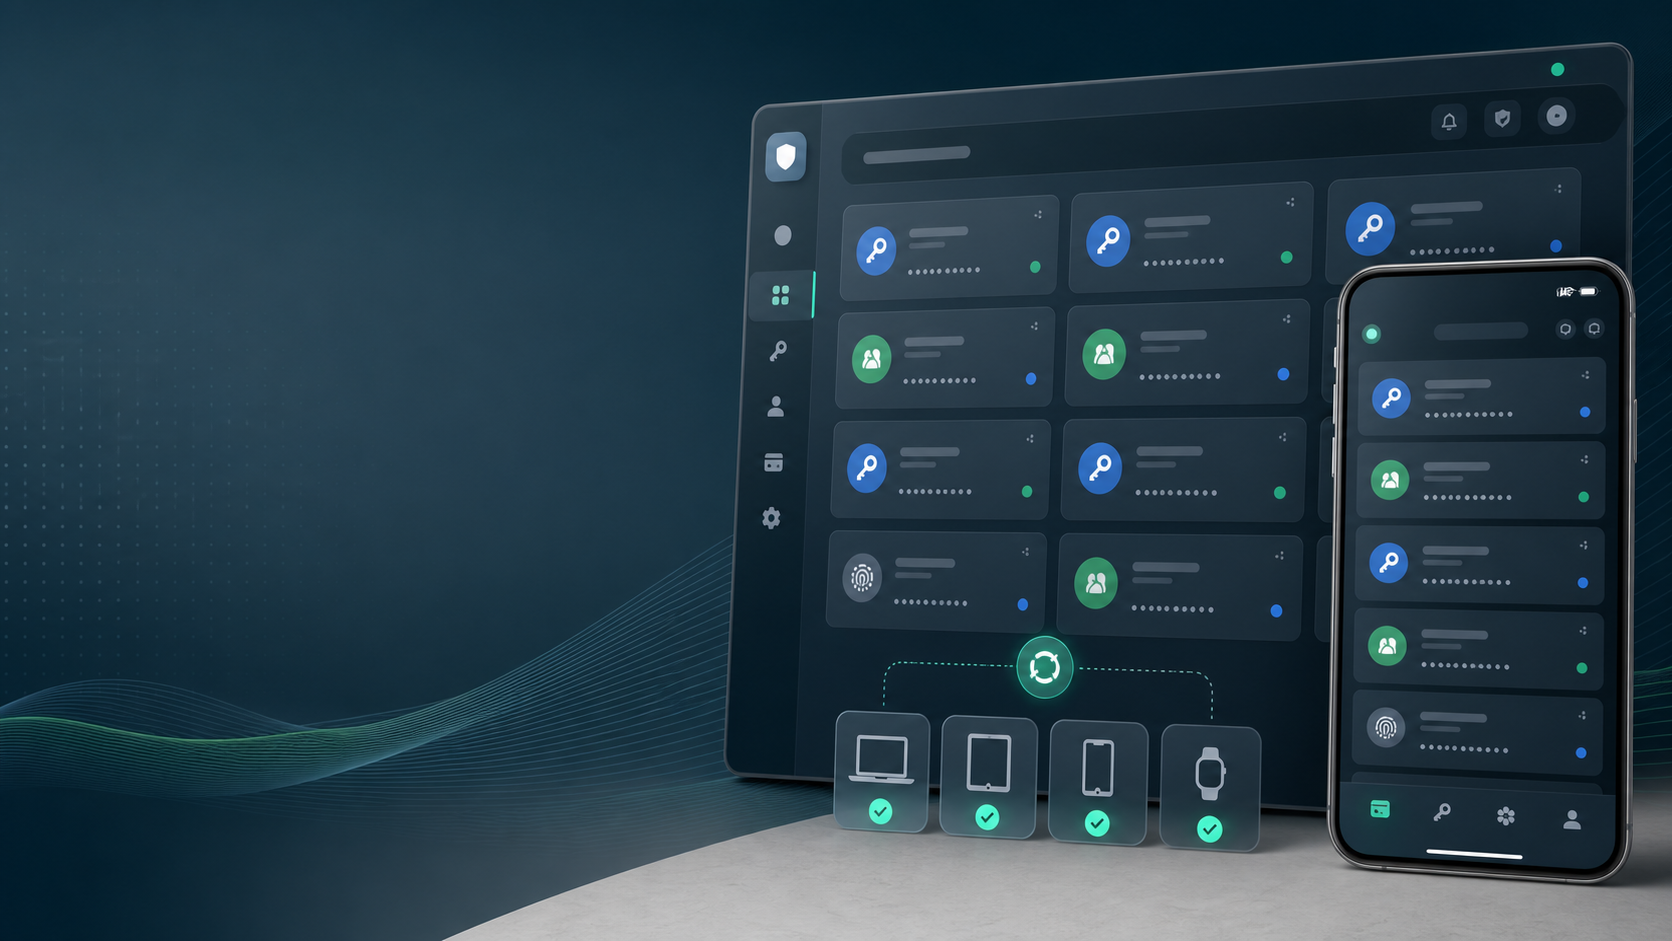
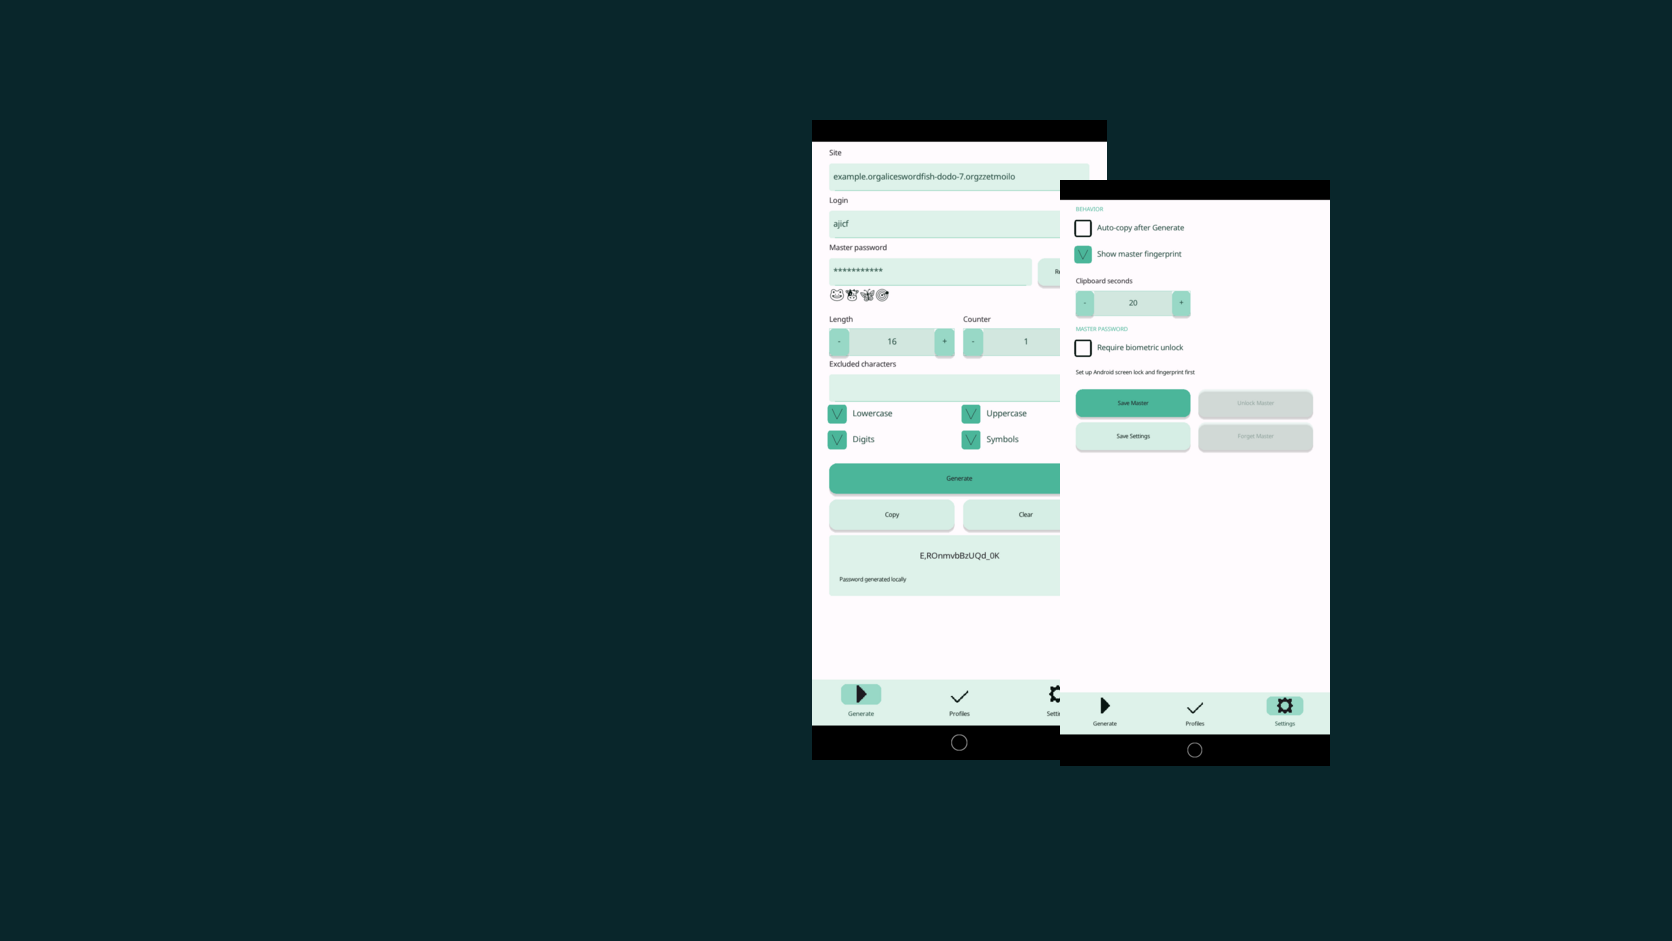
Generate showcase ranking data

diff --git a/docs/site/showcase.html b/docs/site/showcase.html
@@ -56,60 +56,7 @@
     <section>
       <p class="section-eyebrow">Top projects</p>
       <h2>Top 10 by trusted stars</h2>
-      <div class="showcase-grid" id="showcase-projects" data-showcase-projects>
-        <article class="app-card">
-          <img class="app-card-image" src="showcase/inner-breeze.png" alt="Inner Breeze app banner">
-          <div class="app-card-body">
-            <span class="showcase-rank">#1 · 28 stars</span>
-            <span class="app-kicker">wellness · habits · mobile · web</span>
-            <h3>Inner Breeze</h3>
-            <p>Breathing, meditation, and habit practice flows built as a real Kryon app target.</p>
-            <div class="app-actions">
-              <a class="btn btn-primary" href="https://inbe.waozi.xyz" target="_blank" rel="noopener">Open app</a>
-              <a class="btn" href="https://github.com/waozixyz/inbe" target="_blank" rel="noopener">Source</a>
-            </div>
-          </div>
-        </article>
-        <article class="app-card">
-          <img class="app-card-image" src="showcase/krait.png" alt="Krait IDE banner">
-          <div class="app-card-body">
-            <span class="showcase-rank">#2 · 1 star</span>
-            <span class="app-kicker">IDE · developer-tools · desktop</span>
-            <h3>Krait</h3>
-            <p>Standalone Kryon IDE for editing, previewing, inspecting, and building Kryon projects.</p>
-            <div class="app-actions">
-              <a class="btn btn-primary" href="https://krait.kryonlabs.com" target="_blank" rel="noopener">Open app</a>
-              <a class="btn" href="https://github.com/kryonlabs/krait" target="_blank" rel="noopener">Source</a>
-            </div>
-          </div>
-        </article>
-        <article class="app-card">
-          <img class="app-card-image" src="showcase/pass.png" alt="Pass password generator banner">
-          <div class="app-card-body">
-            <span class="showcase-rank">#3 · 1 star</span>
-            <span class="app-kicker">security · passwords · desktop · mobile · web</span>
-            <h3>Pass</h3>
-            <p>Deterministic password generator with CLI, desktop, Android, and browser builds.</p>
-            <div class="app-actions">
-              <a class="btn btn-primary" href="https://pass.waozi.xyz" target="_blank" rel="noopener">Open app</a>
-              <a class="btn" href="https://github.com/waozixyz/pass" target="_blank" rel="noopener">Source</a>
-            </div>
-          </div>
-        </article>
-        <article class="app-card">
-          <img class="app-card-image" src="showcase/kapsule.png" alt="Kapsule terminal banner">
-          <div class="app-card-body">
-            <span class="showcase-rank">#4 · 0 stars</span>
-            <span class="app-kicker">terminal · developer-tools · desktop</span>
-            <h3>Kapsule</h3>
-            <p>Native terminal application with sessions, tabs, and focused developer workflows.</p>
-            <div class="app-actions">
-              <a class="btn btn-primary" href="https://kapsule.kryonlabs.com" target="_blank" rel="noopener">Open app</a>
-              <a class="btn" href="https://github.com/kryonlabs/kapsule" target="_blank" rel="noopener">Source</a>
-            </div>
-          </div>
-        </article>
-      </div>
+      <div class="showcase-grid" id="showcase-projects" data-showcase-projects aria-live="polite"></div>
     </section>
   </main>
 
@@ -175,7 +122,7 @@
         var tags = (project.tags || []).join(" · ");
         var homepage = project.homepage || project.repository;
         return '<article class="app-card">' +
-          '<img class="app-card-image" src="' + escapeHtml(project.banner) + '" alt="' + escapeHtml(project.name) + ' app banner">' +
+          '<img class="app-card-image" src="' + escapeHtml(project.banner) + '" alt="' + escapeHtml(project.bannerAlt || project.name + ' app banner') + '">' +
           '<div class="app-card-body">' +
           '<span class="showcase-rank">' + escapeHtml(rank + starLabel(project.stars)) + '</span>' +
           '<span class="app-kicker">' + escapeHtml(tags) + '</span>' +
@@ -224,11 +171,14 @@
           .then(function(data) {
             if (!data || !Array.isArray(data.projects) || !data.projects.length) return;
             var projects = rerankProjects(data.projects);
-            grid.innerHTML = projects.map(renderProject).join("");
+            var hasGeneratedStars = projects.some(function(project) {
+              return typeof project.stars === "number";
+            });
+            if (hasGeneratedStars) {
+              grid.innerHTML = projects.map(renderProject).join("");
+            }
             refreshStars(projects).then(function(liveProjects) {
-              if (liveProjects !== projects) {
-                grid.innerHTML = liveProjects.map(renderProject).join("");
-              }
+              grid.innerHTML = liveProjects.map(renderProject).join("");
             });
           })
           .catch(function() {});

diff --git a/docs/site/styles.css b/docs/site/styles.css
@@ -837,11 +837,29 @@ h3 {
 }
 
 .showcase-grid .app-card {
-  min-height: 360px;
+  display: flex;
+  flex-direction: column;
+  min-height: 0;
+  background: #0b1820;
+}
+
+.showcase-grid .app-card::after {
+  display: none;
 }
 
 .showcase-grid .app-card-image {
-  min-height: 360px;
+  height: 210px;
+  min-height: 210px;
+  object-fit: cover;
+  object-position: center;
+}
+
+.showcase-grid .app-card-body {
+  position: relative;
+  left: auto;
+  bottom: auto;
+  width: auto;
+  padding: 22px;
 }
 
 .showcase-rank {
@@ -856,6 +874,22 @@ h3 {
   background: rgba(255, 253, 248, 0.12);
   font-size: 12px;
   font-weight: 700;
+}
+
+@media (max-width: 620px) {
+  .showcase-grid .app-card {
+    min-height: 0;
+  }
+
+  .showcase-grid .app-card-image {
+    height: 220px;
+    min-height: 220px;
+    padding: 18px;
+  }
+
+  .showcase-grid .app-card h3 {
+    font-size: 34px;
+  }
 }
 
 /* ---- platform grid ---- */

diff --git a/scripts/update-showcase.py b/scripts/update-showcase.py
@@ -1,0 +1,186 @@
+#!/usr/bin/env python3
+import argparse
+import base64
+import datetime as dt
+import json
+import os
+import sys
+import urllib.error
+import urllib.parse
+import urllib.request
+from pathlib import Path
+
+
+USER_AGENT = "kryon-showcase-builder"
+
+
+def request(url):
+    headers = {
+        "Accept": "application/vnd.github+json",
+        "User-Agent": USER_AGENT,
+    }
+    token = os.environ.get("GITHUB_TOKEN")
+    if token:
+        headers["Authorization"] = f"Bearer {token}"
+    return urllib.request.Request(url, headers=headers)
+
+
+def fetch_json(url):
+    with urllib.request.urlopen(request(url), timeout=20) as response:
+        return json.load(response)
+
+
+def fetch_bytes(url):
+    with urllib.request.urlopen(request(url), timeout=30) as response:
+        return response.read()
+
+
+def fetch_banner_bytes(url):
+    parsed = urllib.parse.urlparse(url)
+    parts = parsed.path.lstrip("/").split("/")
+    if parsed.netloc == "raw.githubusercontent.com" and len(parts) >= 4:
+        owner, repo, ref = parts[0], parts[1], parts[2]
+        path = "/".join(parts[3:])
+        api_url = (
+            f"https://api.github.com/repos/{owner}/{repo}/contents/"
+            f"{urllib.parse.quote(path)}?ref={urllib.parse.quote(ref)}"
+        )
+        data = fetch_json(api_url)
+        if data.get("encoding") == "base64" and isinstance(data.get("content"), str):
+            return base64.b64decode(data["content"])
+    return fetch_bytes(url)
+
+
+def load_local_projects(projects_dir):
+    return [
+        json.loads(path.read_text(encoding="utf-8"))
+        for path in sorted(projects_dir.glob("*.json"))
+    ]
+
+
+def load_github_projects(repo, ref):
+    owner, name = repo.split("/", 1)
+    listing_url = (
+        f"https://api.github.com/repos/{owner}/{name}/contents/projects"
+        f"?ref={urllib.parse.quote(ref)}"
+    )
+    entries = fetch_json(listing_url)
+    projects = []
+    for entry in sorted(entries, key=lambda item: item["name"]):
+        if entry.get("type") != "file" or not entry["name"].endswith(".json"):
+            continue
+        data = fetch_bytes(entry["download_url"])
+        projects.append(json.loads(data.decode("utf-8")))
+    return projects
+
+
+def github_stars(repository):
+    if repository.get("platform") != "github":
+        return None
+    owner = repository["owner"]
+    name = repository["name"]
+    repo = fetch_json(f"https://api.github.com/repos/{owner}/{name}")
+    stars = repo.get("stargazers_count")
+    return stars if isinstance(stars, int) else None
+
+
+def banner_name(project):
+    url_path = urllib.parse.urlparse(project["banner"]["url"]).path
+    suffix = Path(url_path).suffix.lower()
+    if suffix not in (".png", ".jpg", ".jpeg", ".webp"):
+        suffix = ".png"
+    return f"{project['slug']}{suffix}"
+
+
+def download_banner(project, banner_dir):
+    banner_dir.mkdir(parents=True, exist_ok=True)
+    name = banner_name(project)
+    path = banner_dir / name
+    path.write_bytes(fetch_banner_bytes(project["banner"]["url"]))
+    return f"showcase/{name}"
+
+
+def site_project(project, banner_path, stars):
+    repository = project["repository"]
+    unranked = bool(project.get("unranked")) or stars is None
+    return {
+        "slug": project["slug"],
+        "name": project["name"],
+        "summary": project["summary"],
+        "repository": repository["url"],
+        "homepage": project.get("homepage", repository["url"]),
+        "banner": banner_path,
+        "bannerAlt": project.get("banner", {}).get("alt", f"{project['name']} app banner"),
+        "stars": stars,
+        "tags": project["tags"],
+        "featured": bool(project.get("featured")),
+        "unranked": unranked,
+    }
+
+
+def trusted_stars(project):
+    return project["stars"] if isinstance(project.get("stars"), int) and not project.get("unranked") else -1
+
+
+def rank_projects(projects, limit):
+    ranked = sorted(
+        projects,
+        key=lambda project: (
+            bool(project.get("unranked")),
+            -trusted_stars(project),
+            project["name"].lower(),
+        ),
+    )[:limit]
+    rank = 1
+    for project in ranked:
+        if project.get("unranked"):
+            project["rank"] = None
+        else:
+            project["rank"] = rank
+            rank += 1
+    return ranked
+
+
+def main():
+    parser = argparse.ArgumentParser(description="Generate Kryon showcase site data.")
+    parser.add_argument("--projects-dir", type=Path)
+    parser.add_argument("--source-repo", default="kryonlabs/showcase")
+    parser.add_argument("--source-ref", default="master")
+    parser.add_argument("--output", type=Path, required=True)
+    parser.add_argument("--banner-dir", type=Path, required=True)
+    parser.add_argument("--limit", type=int, default=10)
+    args = parser.parse_args()
+
+    if args.projects_dir:
+        projects = load_local_projects(args.projects_dir)
+        source = str(args.projects_dir)
+    else:
+        projects = load_github_projects(args.source_repo, args.source_ref)
+        source = f"https://github.com/{args.source_repo}/tree/{args.source_ref}/projects"
+
+    site_projects = []
+    for project in projects:
+        try:
+            stars = None if project.get("unranked") else github_stars(project["repository"])
+        except (KeyError, urllib.error.URLError, TimeoutError, json.JSONDecodeError) as exc:
+            print(f"showcase: could not count {project.get('slug', '<unknown>')}: {exc}", file=sys.stderr)
+            stars = None
+        try:
+            banner_path = download_banner(project, args.banner_dir)
+        except (KeyError, urllib.error.URLError, TimeoutError) as exc:
+            raise SystemExit(f"showcase: could not download banner for {project.get('slug', '<unknown>')}: {exc}")
+        site_projects.append(site_project(project, banner_path, stars))
+
+    data = {
+        "schemaVersion": 1,
+        "updatedAt": dt.datetime.now(dt.timezone.utc).date().isoformat(),
+        "source": source,
+        "trustedPlatforms": ["github"],
+        "projects": rank_projects(site_projects, args.limit),
+    }
+    args.output.parent.mkdir(parents=True, exist_ok=True)
+    args.output.write_text(json.dumps(data, indent=2) + "\n", encoding="utf-8")
+
+
+if __name__ == "__main__":
+    raise SystemExit(main())
